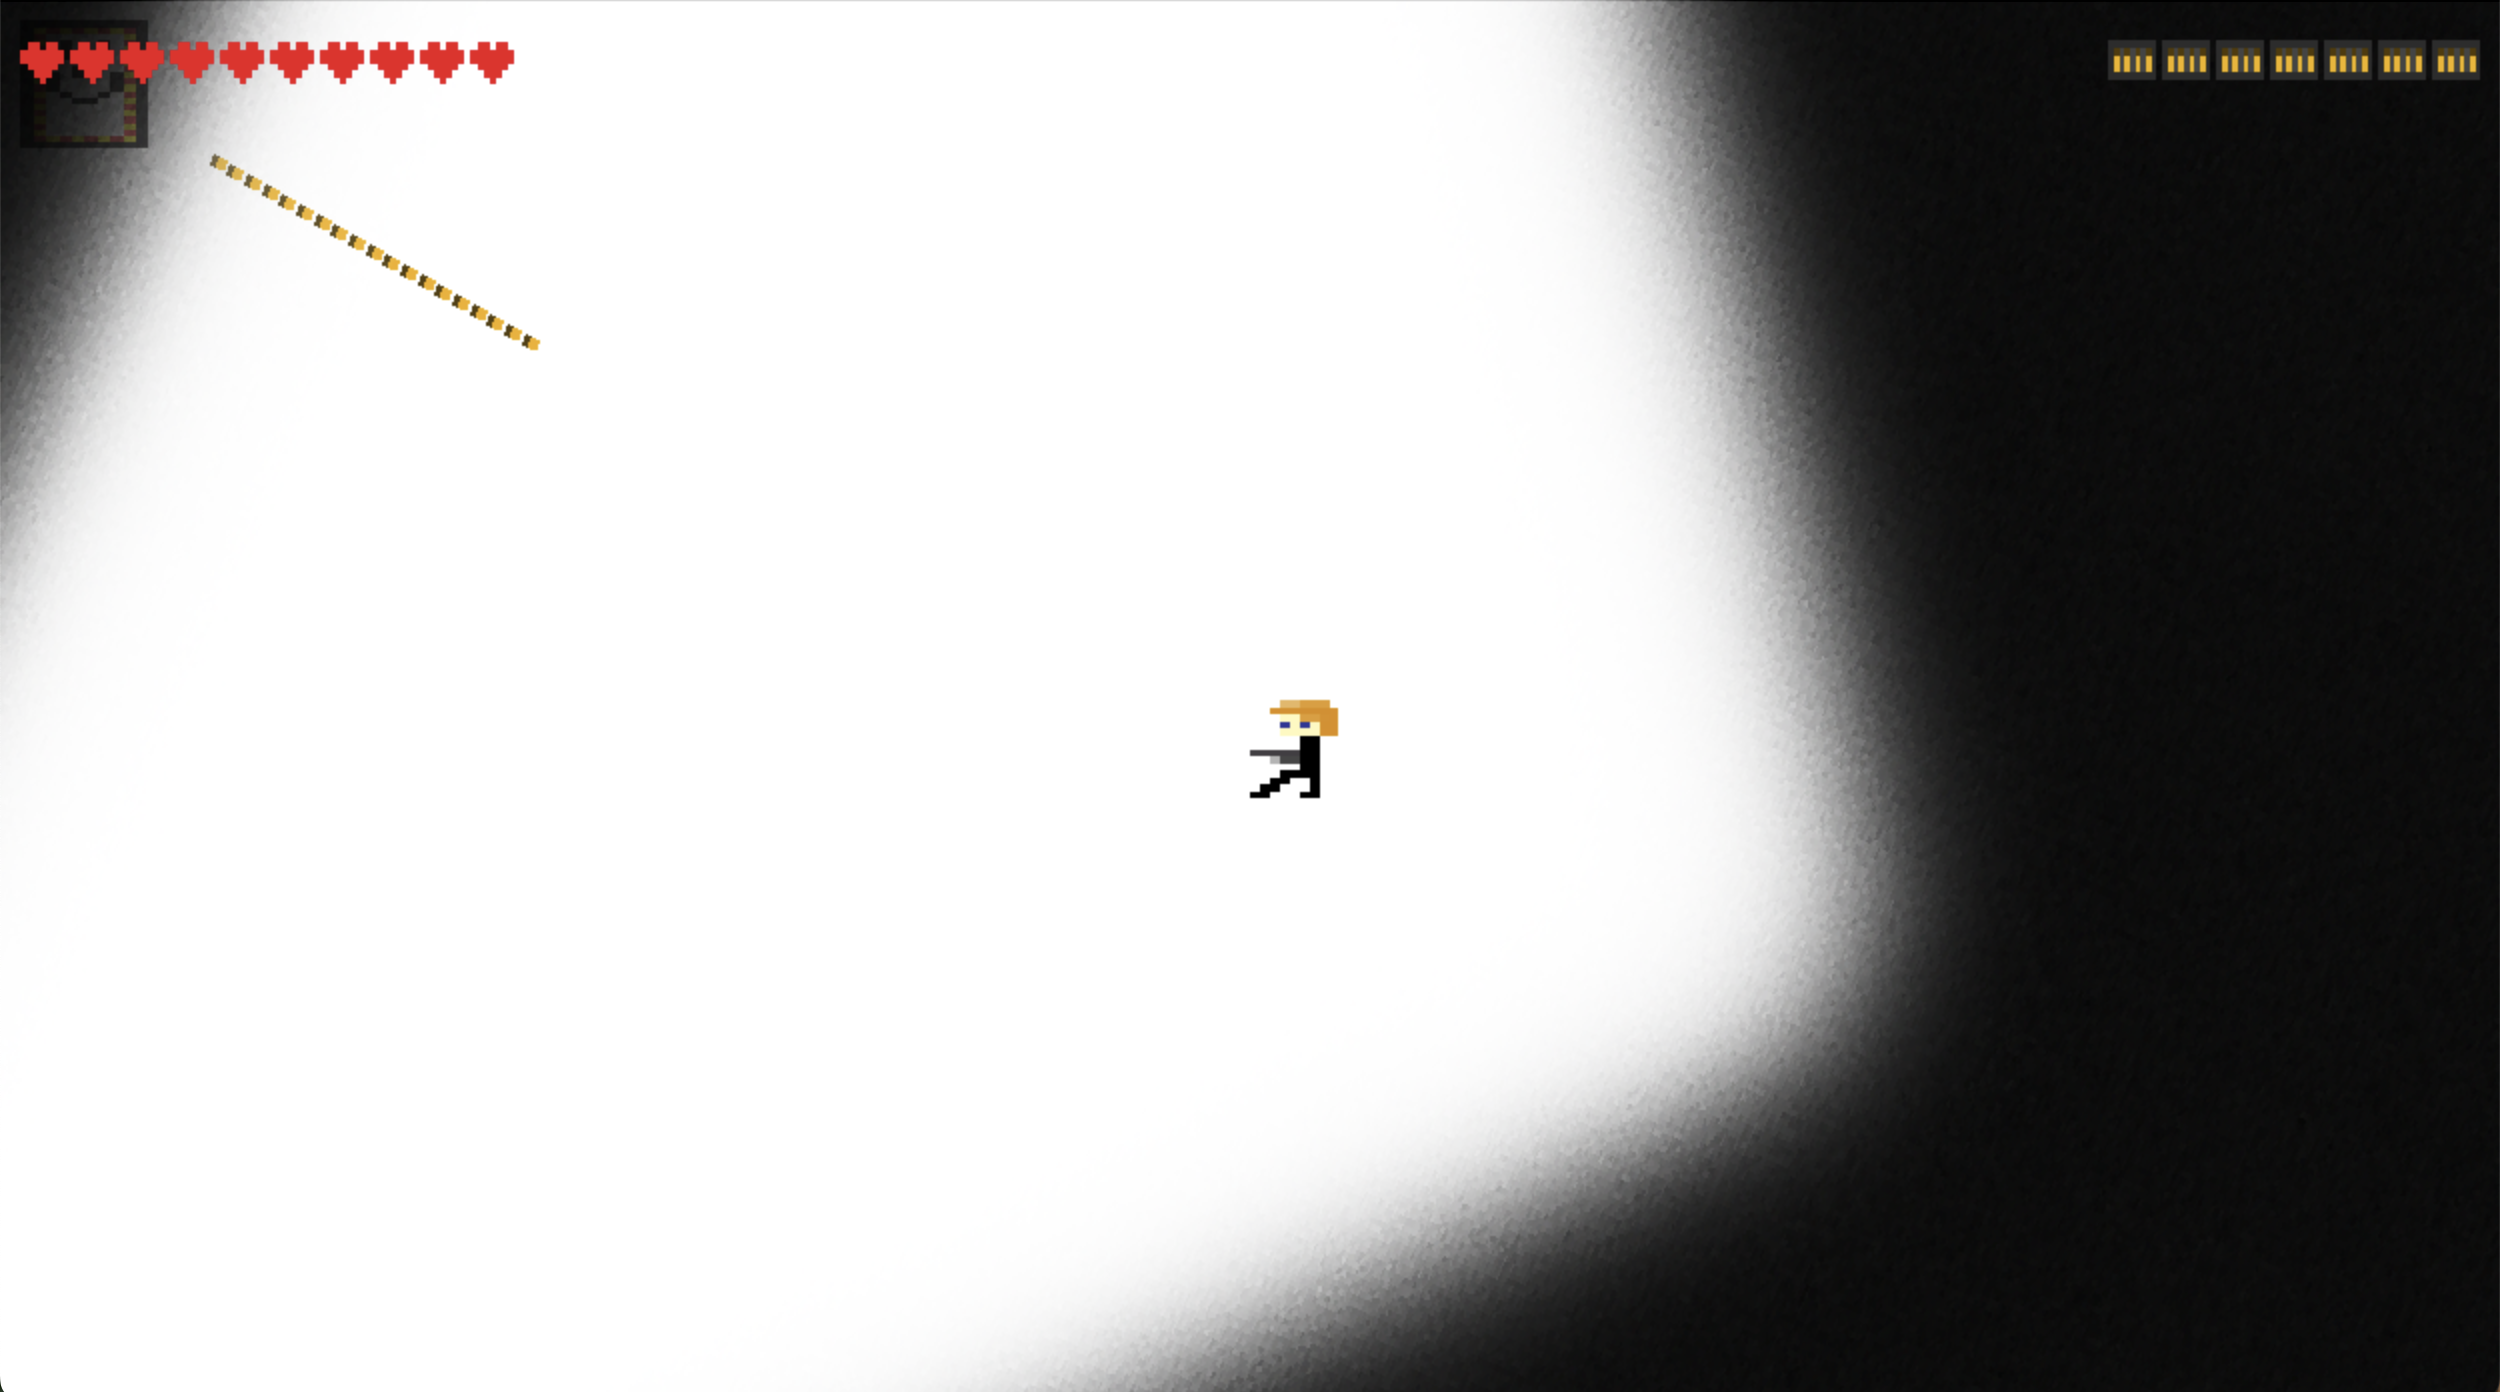
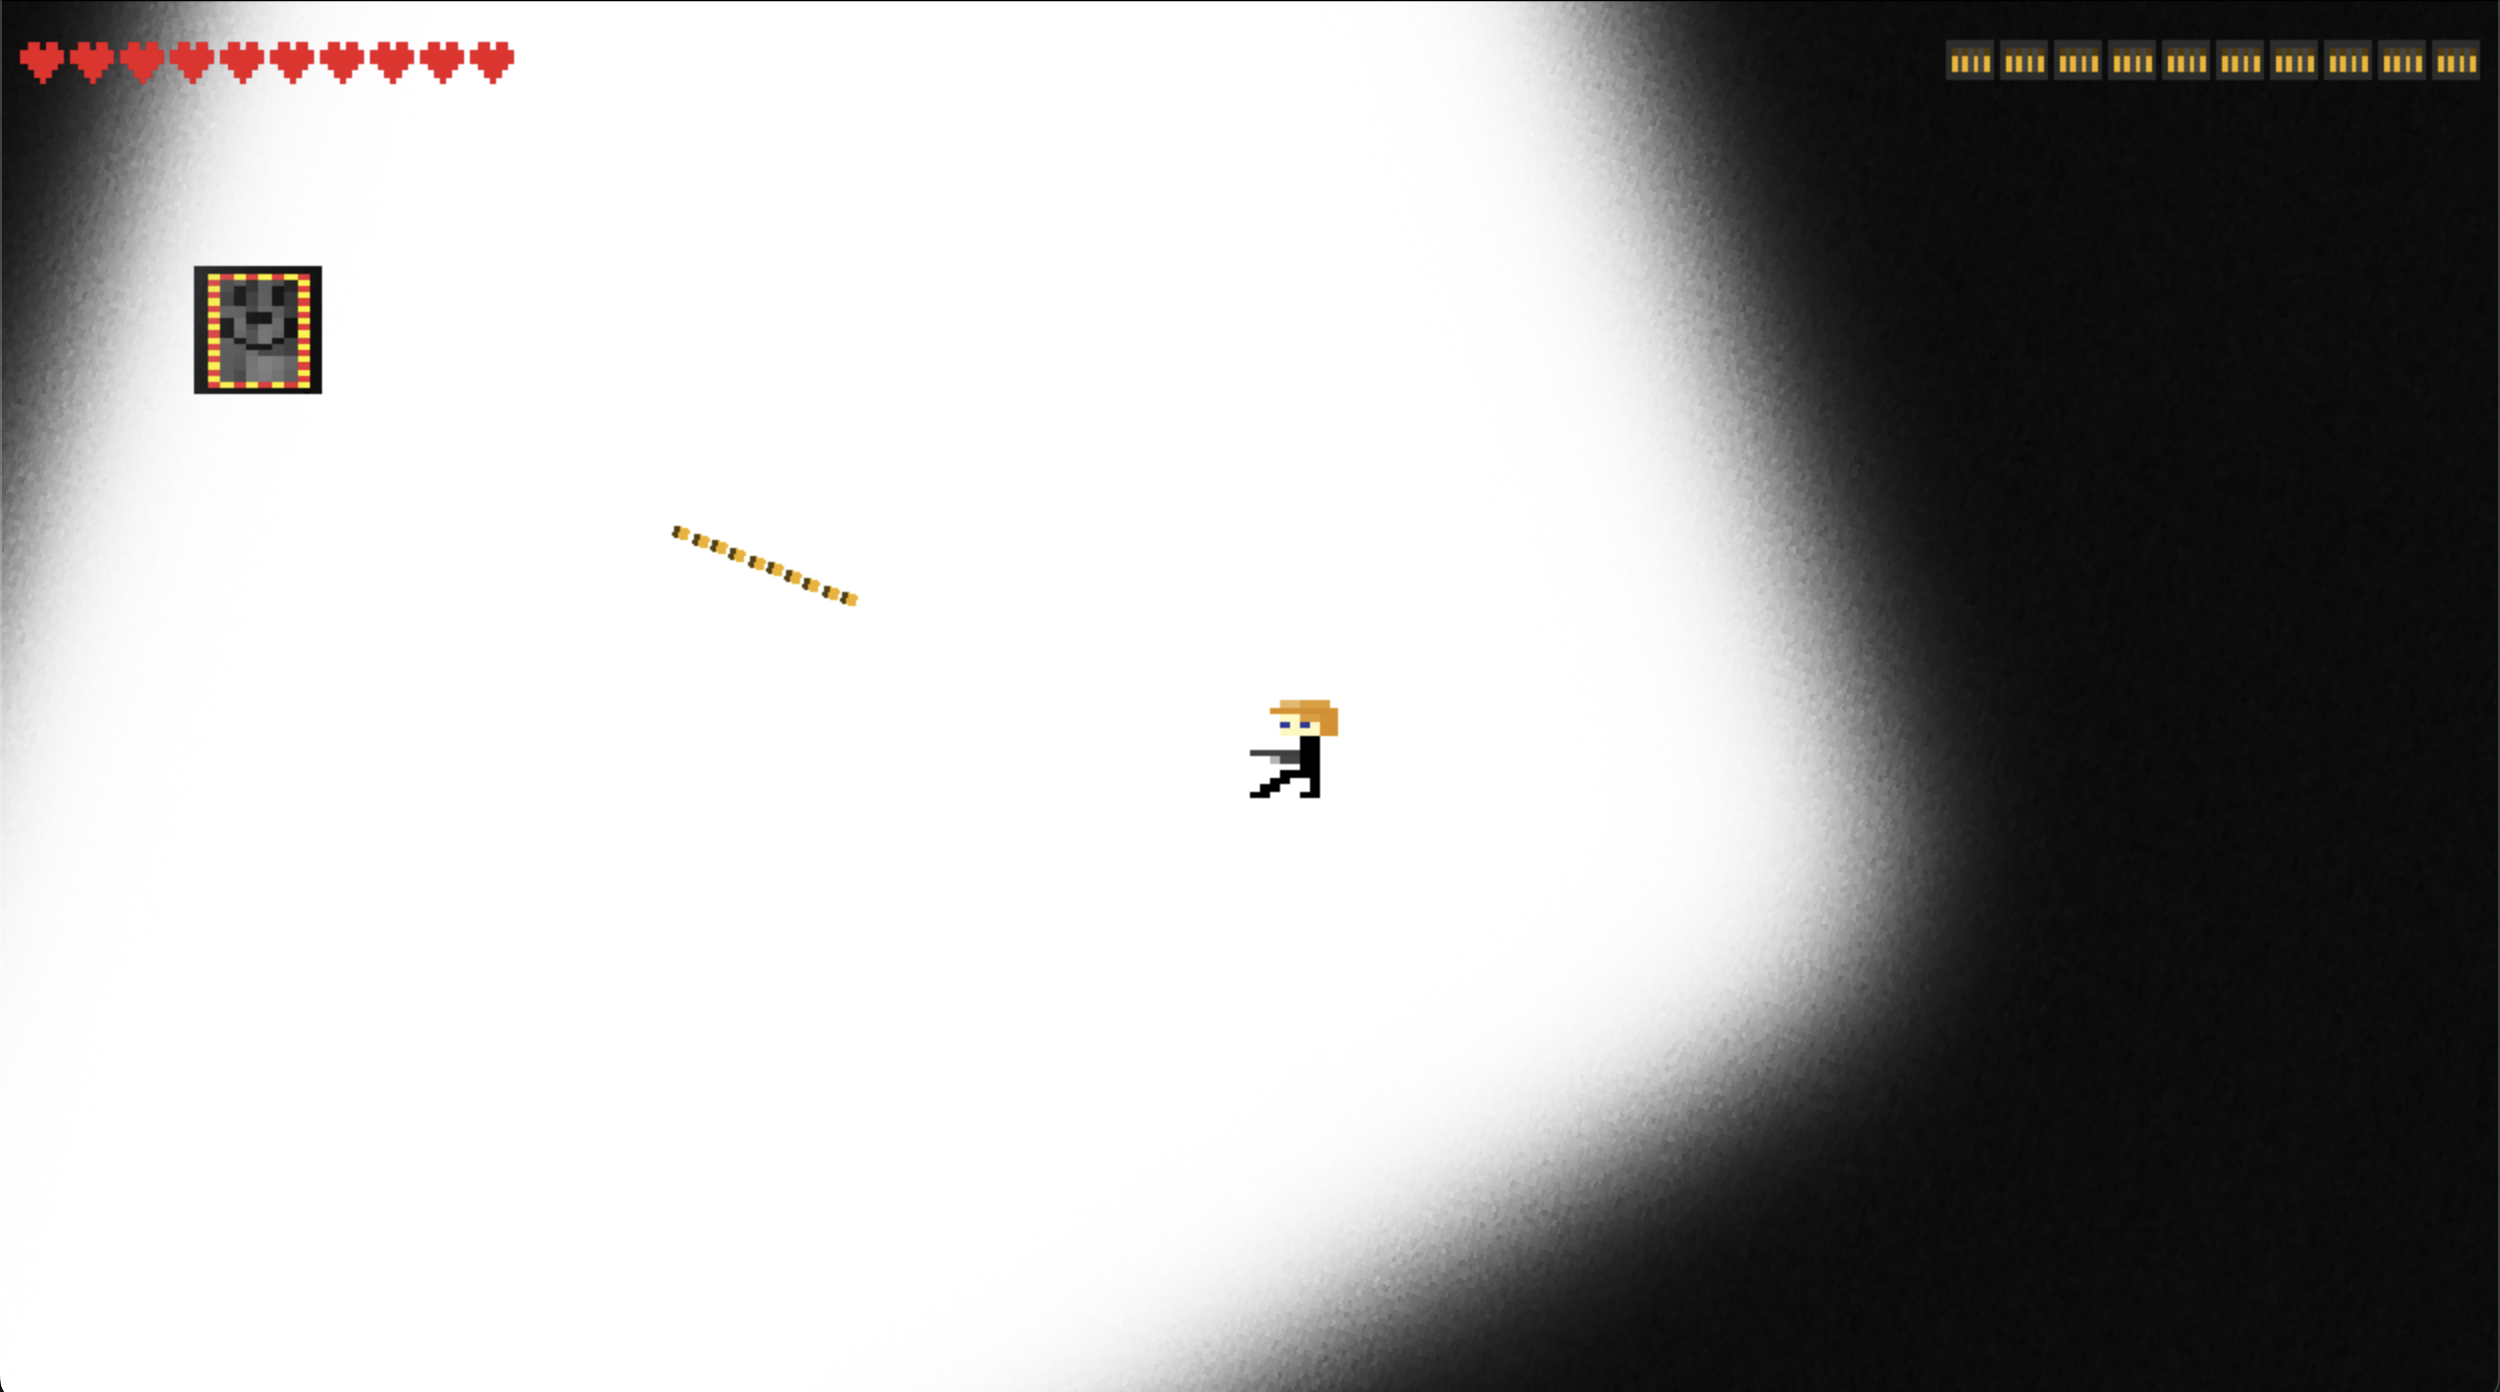
Calculations.py: balance_lists(), polygon managing. Data.py: Formatting. Entities.py: Bullet combatability Graphics.py: Tile texture added. Main.py: Importing functions and variables from modules, movement fixed (using Calculations.balance_lists() so tiles and entities can be moved together even whe

diff --git a/Main.py b/Main.py
@@ -1,5 +1,5 @@
 import pygame
-from Data import tiles, bullets, Player
+from Data import tiles, entities, bullets, Player
 from Graphics import screen
 import Graphics
 import Tiles
@@ -7,10 +7,12 @@ import Entities
 import Projectiles
 import Aiming
 import HUD
+import Calculations
 
 # Pygame setup
 pygame.init()
 pygame.display.set_caption("Pixel Battle")
+pygame.display.set_icon(Graphics.player)
 clock = pygame.time.Clock()
 dt = 0
 running = True
@@ -19,8 +21,9 @@ running = True
 debug = False
 
 # Setup
-player = Player((screen.get_width() / 2, screen.get_height() / 2), 200, 5, 50, Graphics.player)
-tiles.append(Tiles.create((10, 10), Graphics.test_surface))
+player = Player((screen.get_width() / 2, screen.get_height() / 2), 200, 300, 50, Graphics.player)
+tiles.append(Tiles.create((10, 10), Graphics.generic_tile))
+entities.append(Entities.create((10, 10), Graphics.test_surface, 20))
 while running:
     for event in pygame.event.get():
         if event.type == pygame.QUIT:
@@ -45,17 +48,33 @@ while running:
 
     keys = pygame.key.get_pressed()
     if keys[pygame.K_w]:
-        for tile in tiles:
-            tile.move(0, 300 * dt)
+        temp_tiles, temp_entities = Calculations.balance_lists(tiles, entities) # Normilising the lists so the function does both even if one list is empty
+        for (tile, entity) in zip(temp_tiles, temp_entities):
+            if tile != None:
+                tile.move(0, player.speed * dt)
+            if entity != None:
+                entity.move(0, player.speed * dt)
     if keys[pygame.K_a]:
-        for tile in tiles:
-            tile.move(300 * dt)
+        temp_tiles, temp_entities = Calculations.balance_lists(tiles, entities)
+        for (tile, entity) in zip(temp_tiles, temp_entities):
+            if tile != None:
+                tile.move(player.speed * dt)
+            if entity != None:
+                entity.move(player.speed * dt)
     if keys[pygame.K_s]:
-        for tile in tiles:
-            tile.move(0, -300 * dt)
+        temp_tiles, temp_entities = Calculations.balance_lists(tiles, entities)
+        for (tile, entity) in zip(temp_tiles, temp_entities):
+            if tile != None:
+                tile.move(0, -player.speed * dt)
+            if entity != None:
+                entity.move(0, -player.speed * dt)
     if keys[pygame.K_d]:
-        for tile in tiles:
-            tile.move(-300 * dt)
+        temp_tiles, temp_entities = Calculations.balance_lists(tiles, entities)
+        for (tile, entity) in zip(temp_tiles, temp_entities):
+            if tile != None:
+                tile.move(-player.speed * dt)
+            if entity != None:
+                entity.move(-player.speed * dt)
     if keys[pygame.K_SPACE] and keys[pygame.K_LSHIFT]:
         if player.ammo > 0:
             bullets.append(Projectiles.create(pygame.Vector2(player.x, player.y + 27), pygame.Vector2(pygame.mouse.get_pos()), pygame.transform.rotate(Graphics.bullet, Aiming.get_vision_angle(player.pos, pygame.mouse.get_pos()) + 180)))
@@ -66,6 +85,9 @@ while running:
     view_range_rect = view_range.get_rect(center=player.pos)
     previous_view_angle = Aiming.get_vision_angle(player.pos, pygame.mouse.get_pos())
 
+    for entity in entities:
+        Entities.damage_on_bullet(entity)
+    Entities.check_if_dead()
     screen.blit(view_range, view_range_rect)
     HUD.Health.draw(player.health)
     HUD.Ammo.draw(player.ammo)

diff --git a/Calculations.py b/Calculations.py
@@ -1,4 +1,57 @@
-import math
+import pygame
 
 def round_to_nearest_multiple(number, n):
     return round(number / n) * n
+
+def balance_lists(a: list, b: list):
+    a = a.copy()
+    b = b.copy()
+
+    a_length = len(a)
+    b_length = len(b)
+
+    if a_length > b_length:
+        list_dif = a_length - b_length
+        for _ in range(list_dif):
+            b.append(None)
+
+    elif a_length < b_length:
+        list_dif = b_length - a_length
+        for _ in range(list_dif):
+            a.append(None)
+    
+    return a, b
+
+def project_polygon(points, axis):
+    min_proj = max_proj = points[0].dot(axis)
+    for p in points[1:]:
+        proj = p.dot(axis)
+        min_proj = min(min_proj, proj)
+        max_proj = max(max_proj, proj)
+    return min_proj, max_proj
+
+def overlap(min1, max1, min2, max2):
+    return max1 >= min2 and max2 >= min1
+
+def polygons_collide(poly1, poly2):
+    for polygon in [poly1, poly2]:
+        for i in range(len(polygon)):
+            p1 = polygon[i]
+            p2 = polygon[(i + 1) % len(polygon)]
+            edge = p2 - p1
+            axis = pygame.Vector2(-edge.y, edge.x).normalize()
+
+            min1, max1 = project_polygon(poly1, axis)
+            min2, max2 = project_polygon(poly2, axis)
+
+            if not overlap(min1, max1, min2, max2):
+                return False  # Separating axis found
+
+    return True  # No separating axis found, so collision
+
+# Example usage
+poly1 = [pygame.Vector2(100, 100), pygame.Vector2(150, 100), pygame.Vector2(125, 150)]
+poly2 = [pygame.Vector2(130, 130), pygame.Vector2(180, 130), pygame.Vector2(155, 180)]
+
+if polygons_collide(poly1, poly2):
+    print("Polygons are colliding!")

diff --git a/Entities.py b/Entities.py
@@ -24,7 +24,24 @@ def draw(self: Entity | None = None):
     elif type(self) == Entity:
         self.draw()
 
-def is_shot(self):
-    self_rect = pygame.Rect(self.x - ENTITY_WIDTH / 2, self.y - ENTITY_HEIGHT / 2, ENTITY_WIDTH, ENTITY_HEIGHT)
+def touching_bullet(self: Entity):
+    entity_rect = pygame.Rect(self.x - self.skin.get_width() / 2, self.y - self.skin.get_height() / 2, self.skin.get_width(), self.skin.get_height())
     for bullet in bullets:
-        bullet_rect = pygame.Rect()
+        bullet_rect = pygame.Rect(bullet.x - bullet.skin.get_width() / 2, bullet.y - bullet.skin.get_height() / 2, bullet.skin.get_width(), bullet.skin.get_height())
+        if pygame.Rect.colliderect(entity_rect, bullet_rect):
+            return True
+    return False
+
+def damage_on_bullet(self: Entity):
+    entity_rect = pygame.Rect(self.x - self.skin.get_width() / 2, self.y - self.skin.get_height() / 2, self.skin.get_width(), self.skin.get_height())
+    for bullet in bullets:
+        bullet_rect = pygame.Rect(bullet.x - bullet.skin.get_width() / 2, bullet.y - bullet.skin.get_height() / 2, bullet.skin.get_width(), bullet.skin.get_height())
+        if pygame.Rect.colliderect(entity_rect, bullet_rect):
+            self.health -= bullet.damage
+            del bullets[bullets.index(bullet)]
+            break
+
+def check_if_dead():
+    for entity in entities:
+        if entity.health <= 0:
+            del entities[entities.index(entity)]

diff --git a/Data.py b/Data.py
@@ -2,11 +2,6 @@ import pygame
 import math
 from Graphics import *
 
-# Entity
-entities = []
-ENTITY_WIDTH = 64
-ENTITY_HEIGHT = 64
-
 class Player:
     def __init__(self, pos: tuple | pygame.Vector2, health: int, speed: float, ammo: int, skin: pygame.Surface, reload_time: int = 5000):
         self.x = pos[0]
@@ -34,6 +29,11 @@ class Player:
         pos = pygame.Vector2(self.x, self.y)
         skin = self.skin
         screen.blit(skin, pos)
+        
+# Entity
+entities = []
+ENTITY_WIDTH = 64
+ENTITY_HEIGHT = 64
 
 class Entity:
     x = None

diff --git a/Projectiles.py b/Projectiles.py
@@ -4,12 +4,13 @@ from Data import Bullet
 from Data import bullets
 from Graphics import screen
 
-def create(pos: tuple | pygame.Vector2, aim: pygame.Vector2, skin: pygame.Surface):
+def create(pos: tuple | pygame.Vector2, aim: pygame.Vector2, skin: pygame.Surface, damage: int = 2):
     self = Bullet()
     self.x = pos[0]
     self.y = pos[1]
     self.skin = skin
     self.aim = aim
+    self.damage = damage
 
     # Calculate direction vector from bullet to mouse
     dx = self.aim.x - self.x

diff --git a/Graphics.py b/Graphics.py
@@ -18,6 +18,9 @@ bullet = pygame.transform.scale(bullet, (bullet.get_width() + 5, bullet.get_heig
 player = pygame.image.load(os.path.join("Graphics", "player.png"))
 player = pygame.transform.scale(player, (player.get_width() + 35, player.get_height() + 35))
 
+# Tile
+generic_tile = pygame.image.load(os.path.join("Graphics", "tile.png")).convert_alpha()
+
 class HUD:
     # Bullet
     bullet_cartridge = pygame.image.load(os.path.join("Graphics", "bullet_cartridge.png")).convert_alpha()

diff --git a/README.md b/README.md
@@ -1,3 +1,4 @@
 # Pixel-Battle
- 
+Pixel Battle is a fun game that mixes between CQB (Close Quarters Battle) and maze games together.
+
 ![alt text](https://github.com/EnCoder199/Pixel-Battle/blob/main/Screenshots/image.png?raw=true)
